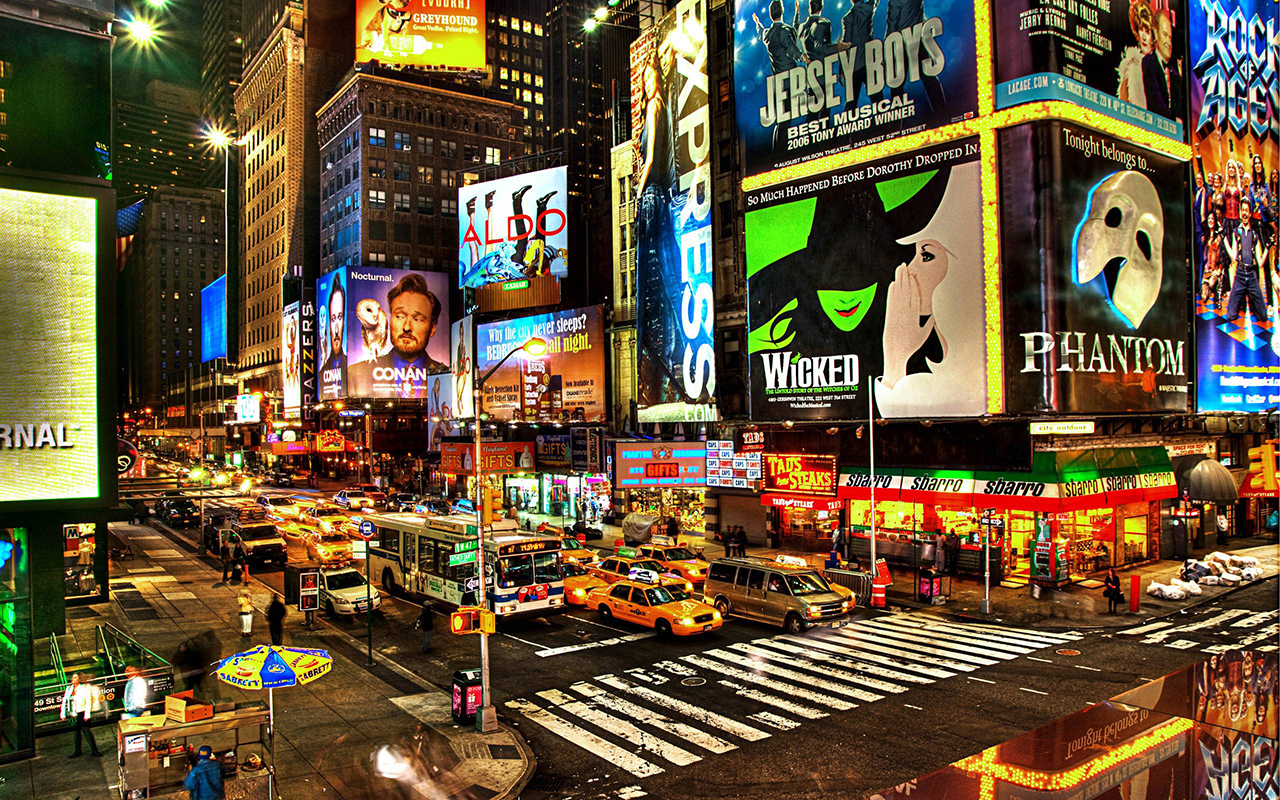
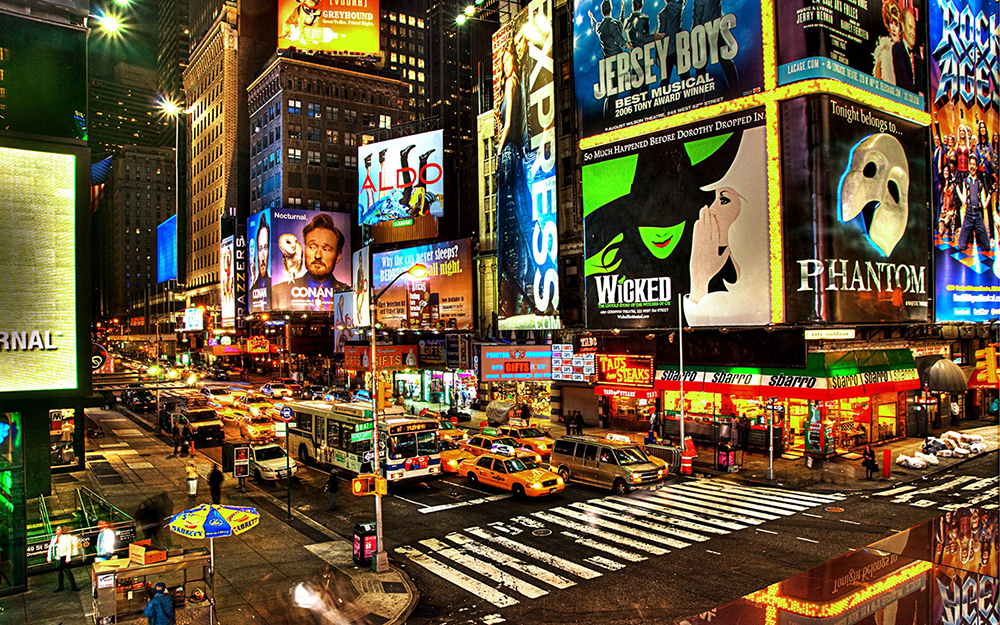
Adding billboard example / warped transform example

diff --git a/src/billboard.py b/src/billboard.py
@@ -1,0 +1,51 @@
+import numpy as np
+import cv2
+from video import create_capture
+
+def get_cam_frame(cam):
+    ret, img = cam.read()
+    # smaller frame size - things run a lot smoother than a full screen img
+    img = cv2.resize(img, (800, 450))
+    return img
+
+def main():
+    # Camera 0 is usually the built in webcam camera... also most people only have 1 webcam on their laptop
+    cam = create_capture(0)
+    
+    # Background image of times square. Shrink it down a little because it runs faster
+    background = cv2.imread("../data/times_square.jpg")
+    #background = cv2.resize(background, (800, 500))
+
+    # get a sample camera frame
+    img = get_cam_frame(cam)
+
+    # The corners of the billboard that we want to replace in the times square image
+    dest = np.array([[581,149], [766,101], [772,324], [585,328]], np.float32)
+    src = np.array([[0,0], [img.shape[1],0], [img.shape[1], img.shape[0]], [0, img.shape[0]]], np.float32)
+    # Create a transformation matrix that converts between the two coordinate systems
+    tform = cv2.getPerspectiveTransform(src, dest)
+
+    # Create a white image the size of our webcam frame so we can build a mask out of the transform we just made
+    white = np.ones(img.shape, np.uint8)
+    mask = (cv2.warpPerspective(white, tform, (background.shape[1], background.shape[0])) != 0)
+
+    while True:
+        img = get_cam_frame(cam)
+
+        # Warp the webcam image to the shape we defined above (should be the shape of one of the billboards)
+        warped = np.zeros(background.shape, np.uint8)
+        warped = cv2.warpPerspective(img, tform, (background.shape[1], background.shape[0]))
+
+        # make a copy of the background... we could keep copying over the same image technically (possible optimization)
+        final = background.copy()
+        final[mask] = warped[mask]
+
+        cv2.imshow('billboard', final)
+
+        # Esc key quits
+        if 0xFF & cv2.waitKey(1) == 27:
+            break
+    cv2.destroyAllWindows()
+
+if __name__ == '__main__':
+    main()
